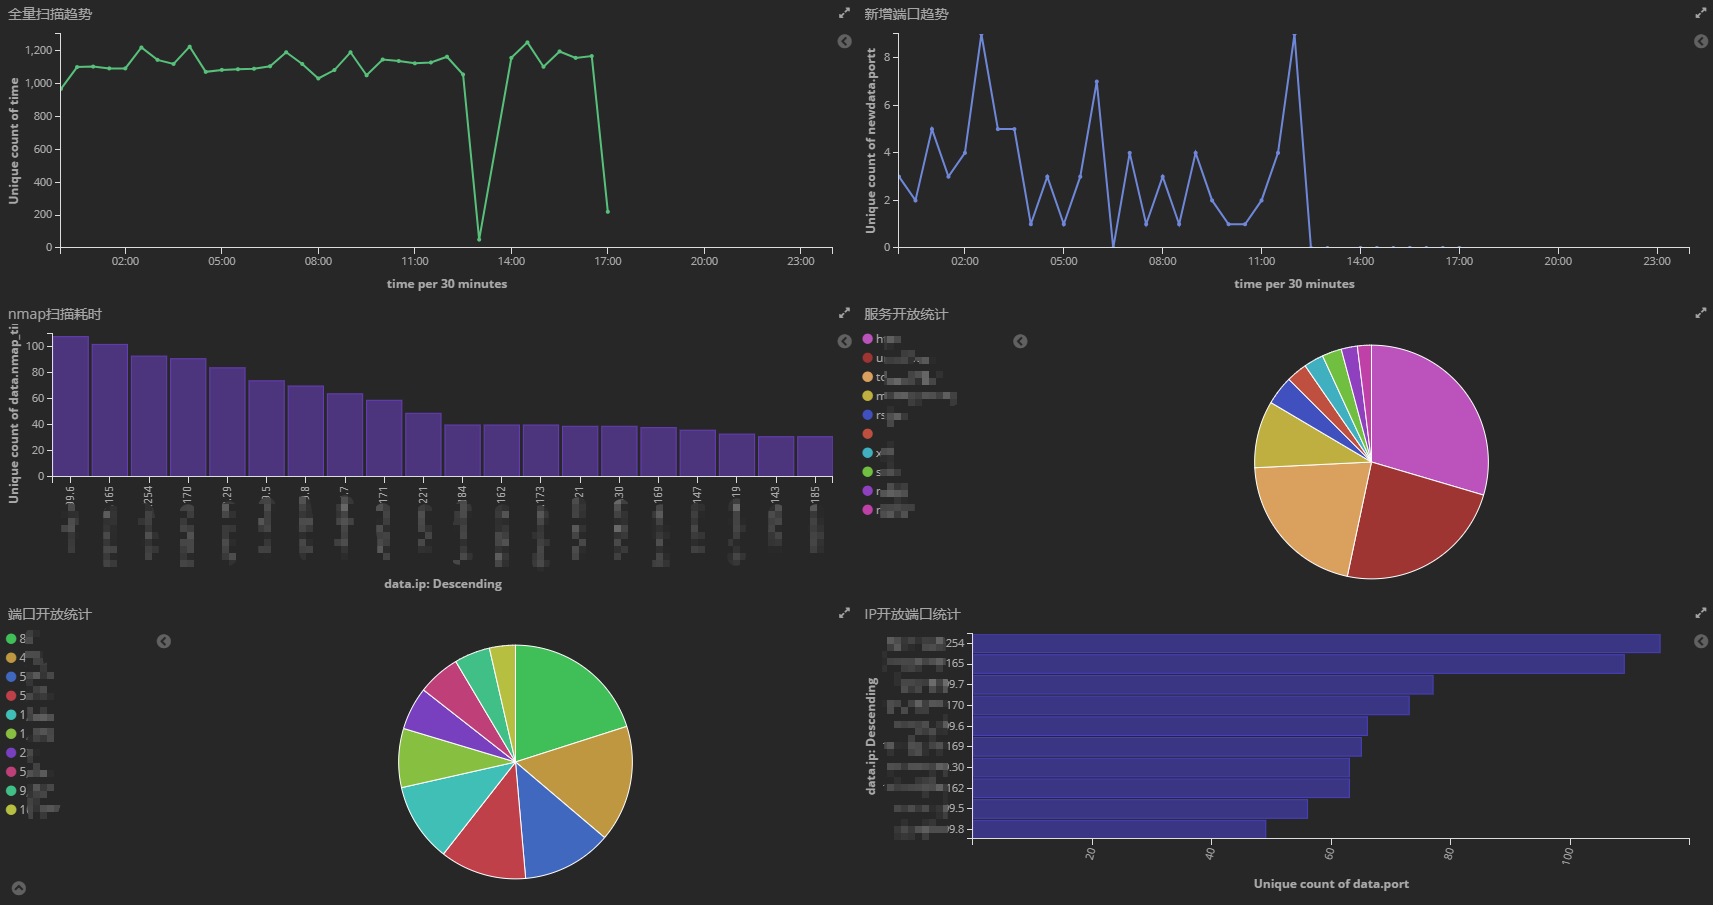
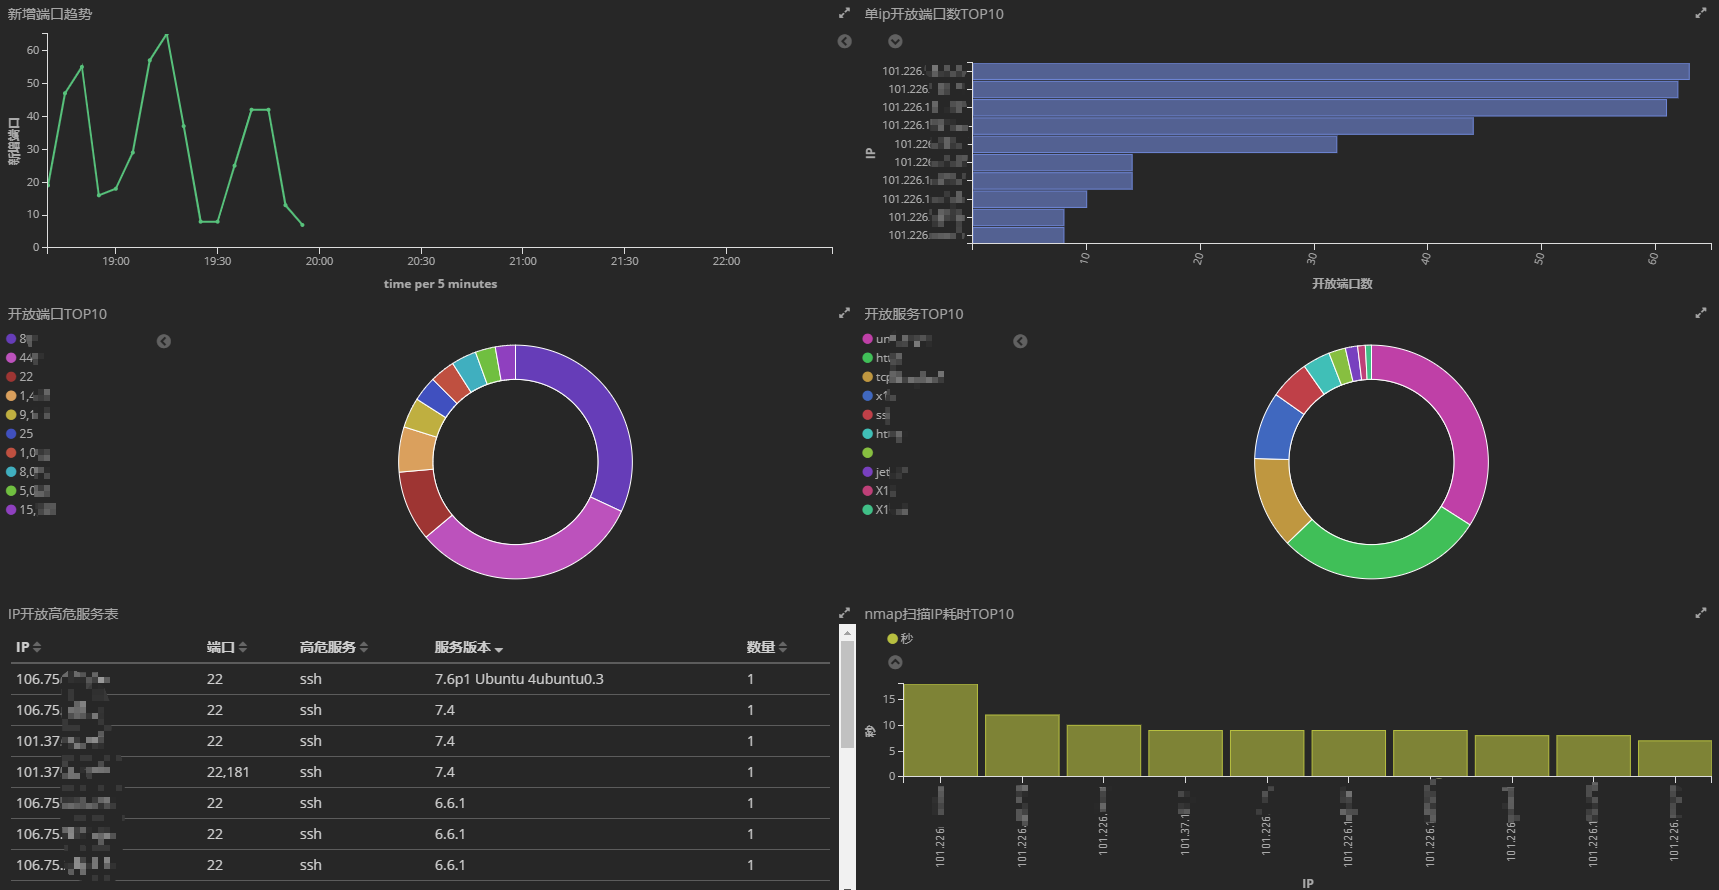
[WN]masscan和nmap并发量可控 [BF]bug修复

diff --git a/doc/kibana.md b/doc/kibana.md
@@ -1,0 +1,19 @@
+# kibana图表模板
+## 模板导入
+
+- 访问http://xx.xx.xx.xx:5601（kibana所在ip地址）,左侧菜单单击`Management`，然后选择`Saved Objects`
+
+- 在新出现页面右上角点击`Import`，选择[release](https://github.com/ATpiu/asset-scan/releases)压缩包中的`dashboard.json`，导入dashboard模板。再次点击`Import`，导入压缩包中的`visualize.json`，导入visualize模板。
+
+## 模板Dashboard说明
+
+![](./key dashboard.png)
+
+有了扫描的基础数据，即可通过kibana来自定义各类表盘，为我们安全人员服务，产生价值
+在此以模板Dashboard为例，说明上图每个图表作用：
+1. 图1：单IP开放端口排序，可以看到前五个外网IP开放端口数明显多于其他几个，一般可能是开启防火墙导致，可添加白名单配置
+2. 图2：可查看23、80和3389等常见端口开放的服务
+3. 图3和图4：左图可查看作者自定义的高危服务及其IP分布，右图可查看详情并下载CSV表格到本地（滚轮下滑到最底部，单击`RAW`导出CSB格式结果），方便推动攻击面收敛工作
+4. 图5和图6：masscan和nmap扫描耗时TOP10，可对扫描时间特别长的IP进行排查，优化扫描策略
+
+**模板Dashboard仅供大家参考学习，具体可根据自己实际需求，在kibana上定制不同的表盘**

diff --git a/doc/install.md b/doc/install.md
@@ -8,7 +8,7 @@
 
 ## nmap和masscan安装
 
-**nmap建议安装最新的7.8版本，较之前有明显的提升**
+**nmap建议安装最新的7.8版本，准确性较之前有明显的提升**
 
 ### nmap安装
 
@@ -18,7 +18,7 @@
 
 ```yum install -y masscan```
 
-## 安装 Elasticsearch 5.6.8版本(暂不支持6.x及以上版本版本)
+## 安装 Elasticsearch 5.6.8版本(暂不支持6.x及以上版本)
 
 - Centos安装java环境
 
@@ -67,11 +67,13 @@ curl -XGET -s "http://localhost:9200/_cluster/health?pretty"
 ```
 wget https://artifacts.elastic.co/downloads/kibana/kibana-5.6.8-linux-x86_64.tar.gz && tar -zxvf kibana-5.6.8-linux-x86_64.tar.gz -C /opt
 ```
-- 在/opt/kibana-5.6.8-linux-x86_64/config/kibana.yml中增加以下配置
+- 在/opt/kibana-5.6.8-linux-x86_64/config/kibana.yml中增加以下配置并保存
 
 ```
 server.host: "0.0.0.0"
 ```
 
+- 输入`nohup /opt/kibana-5.6.8-linux-x86_64/bin/kibana > /dev/null 2>&1 &`,开启kibana
+
 - 浏览器中输入：http://xx.xx.xx.xx:5601（kibana所在ip地址），访问成功后，点击左侧菜单栏`Management`,配置索引。
-`Index pattern`中输入`scan-*`，`Time Filter field name`下拉框选择`time`字段，即完成kibana的配置
+在`Index pattern`中输入`scan-*`，`Time Filter field name`下拉框选择`time`字段，即完成kibana的配置
